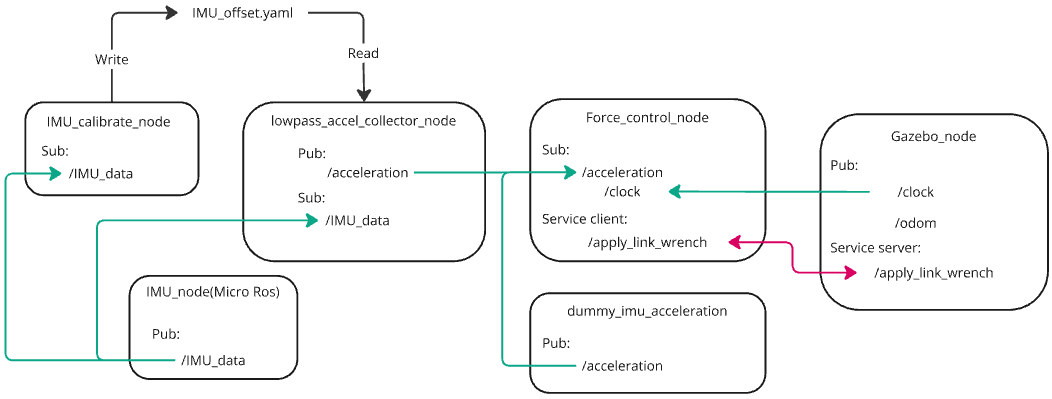
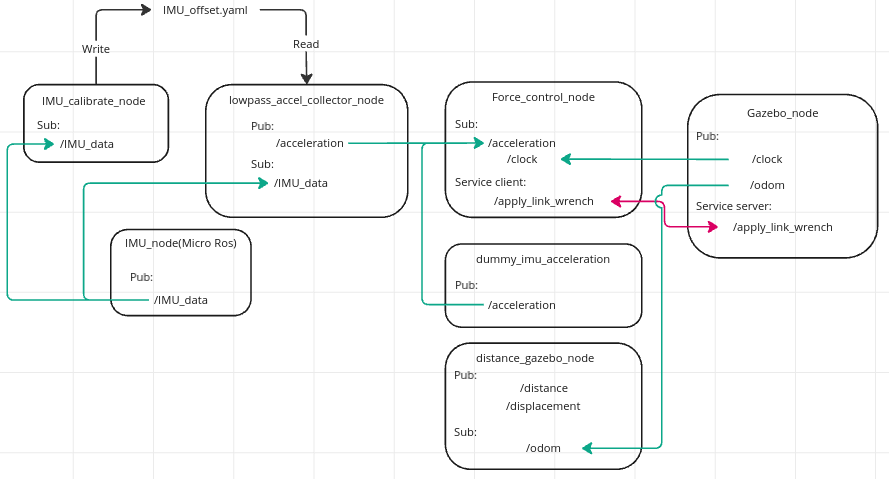
Change SA. TO new

diff --git a/README.md b/README.md
@@ -24,6 +24,8 @@ Ensure you have the following dependencies installed
 - `Gazabo` 
 - `STM32CubeIDE`
 
+**
+
 ## Install project workspace
 Clone this workspace
 
@@ -62,13 +64,15 @@ System separate the work into sub-node that work differently 6 node consist of
 
 - IMU_calabrate_node is a Node that have input value from IMU_node (Micro ROS) to Calibrate value of the IMU to make it more accurate.
 
-- lowpass_accel_collector_node is a Node that have a input value from IMU_node (Micro Ros) after Calibate the value then the accelerate value by Pub Topic : /acceleration to Node Force_control_node
+- lowpass_accel_collector_node is a Node that have a input value from IMU_node (Micro Ros) after Calibate the value then the accelerate value by Pub Topic : /acceleration to Node Force_control_node.
 
-- Force_control_node is a Node that get input of accelerate value from Node : lowpass_accel_collector_node to calculate in Newton's equations to control Object by Servive :/apply_link_wrench of Gazebo
+- Force_control_node is a Node that get input of accelerate value from Node : lowpass_accel_collector_node to calculate in Newton's equations to control Object by Servive :/apply_link_wrench of Gazebo.
 
-- dummy_imu_acceleration is a Node that is for testing of  Force_control_node that control Object of Gazebo
+- distance_gazebo_node is a Node that have input value from Node : Gazebo_node to calculate distance and displacement origin to Object.
 
-- Gazebo_node is a Node of  Gazebo program that will be display result of the system that have Topic : /Odom for display the position of the Object on Ground_truth
+- dummy_imu_acceleration is a Node that is for testing of  Force_control_node that control Object of Gazebo.
+
+- Gazebo_node is a Node of  Gazebo program that will be display result of the system that have Topic : /Odom for display the position of the Object on Ground_truth.
   
 # User guide
 
